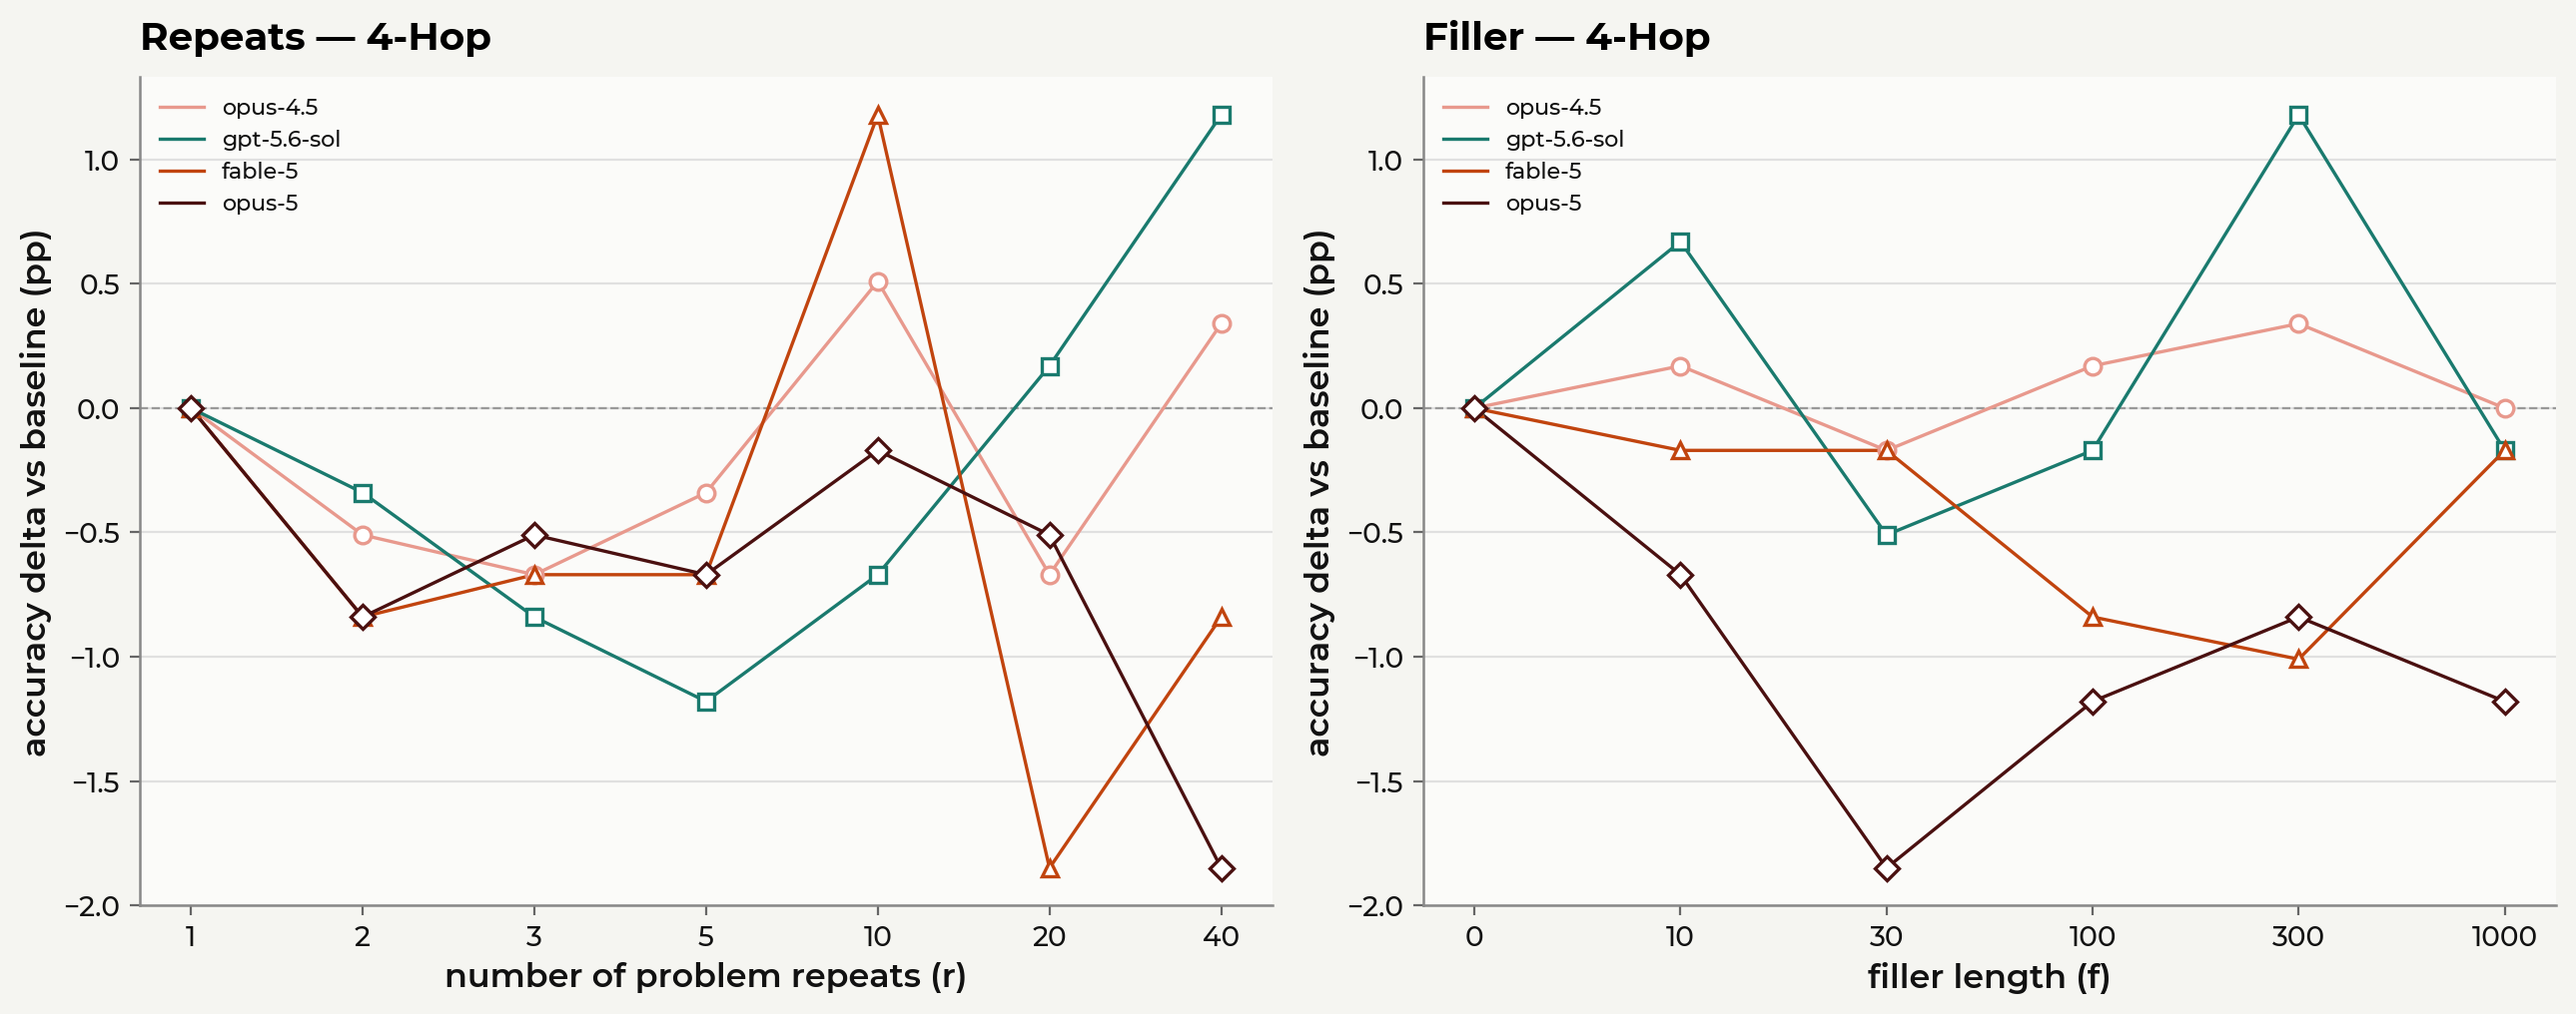
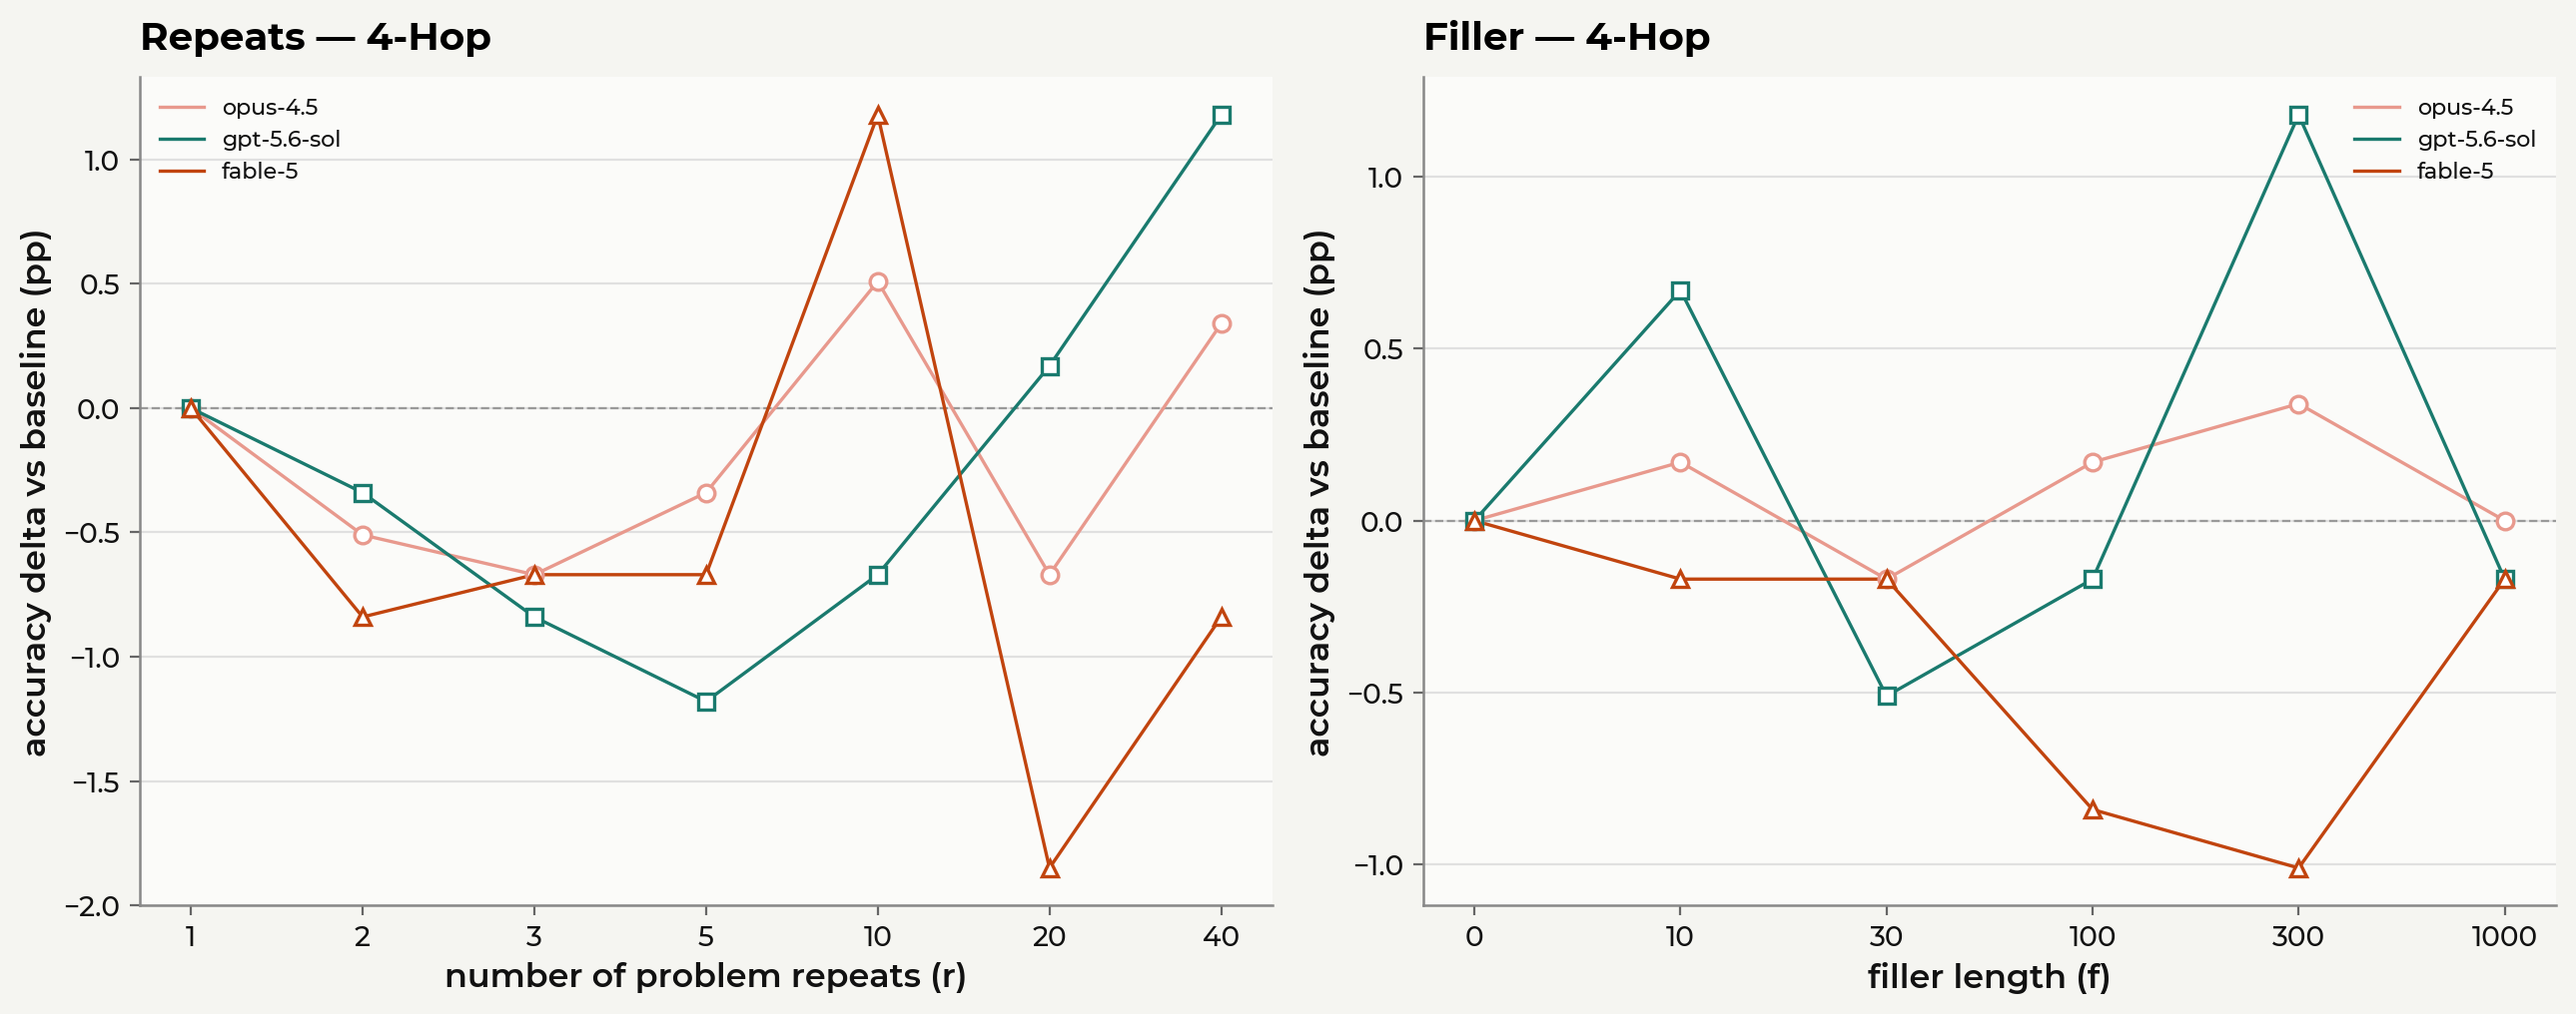
Credit American Dogwood as a match for a Dogwood gold
Reverts part of the previous false-positive scoring fix: Virginia's "American
Dogwood" and North Carolina's "Dogwood" are the same real species (Flowering
Dogwood, Cornus florida), so normalizing them to the same string is a
deliberate call rather than a bug. Re-adds "american " to the directional-
prefix strip list. The "common meadow violet" -> "violet" alias stays removed
(that collision never showed up in real data, and is a less clear-cut
synonym case).

9 rows in the store (all openai/gpt-5.6-sol on nhop_4, previously flipped to
incorrect) flip back to correct. Regenerated the 3 affected nhop_4 figures.

diff --git a/harness/scoring.py b/harness/scoring.py
@@ -255,7 +255,6 @@ _STATE_FLOWERS = [
 _FLOWER_ALIASES = {
     "hawaiian hibiscus": "hibiscus",
     "white hawthorn blossom": "hawthorn",
-    "common meadow violet": "violet",
     "yucca flower": "yucca",
     "wild native sunflower": "sunflower",
     "wild sunflower": "sunflower",
@@ -267,7 +266,17 @@ _FLOWER_ALIASES = {
     # same list (West Virginia), so collapsing "Coast Rhododendron" (Washington) down to it would
     # make the two states' answers indistinguishable.
     "washington rhododendron": "coast rhododendron",
+    # "common meadow violet": "violet" deliberately OMITTED (unlike the rest of this dict, which
+    # matches the ones in the paper's own normalize_answer) — New Jersey's "Common Meadow
+    # Violet" would collapse onto Illinois/Rhode Island's own actual "Violet", making three
+    # different states' gold answers indistinguishable. Confirmed via a full collision check
+    # across every string-valued fact table our vendored generator uses.
 }
+# "american " INCLUDED despite colliding with a different state's gold answer (Virginia's
+# "American Dogwood" -> "dogwood", same normalized form as North Carolina's "Dogwood"): the two
+# states' state flower really is the same species (Flowering Dogwood, Cornus florida) in real
+# life, so crediting the match is a deliberate call, not an oversight — confirmed with the
+# project owner 2026-07-28 after the collision check first flagged it.
 _DIRECTIONAL_PREFIXES = ("northern ", "western ", "eastern ", "southern ", "american ")
 _HONORIFIC_PREFIXES = ("mr. ", "sir. ", "mr ", "sir ", "lord ")
 
@@ -317,12 +326,15 @@ def _base_normalize_string(s: str) -> str:
     if s == "washington":
         s = "district of columbia"
     s = s.replace("audemus jura nostra defendere", "we dare defend our rights")
+    s = s.replace("fatti maschi,", "fatti maschii,")  # a common misspelling of Maryland's motto
     for ch in ",.-'`":
         s = s.replace(ch, "")
     s = re.sub(r"\band\b", "", s)  # drop the word "and" -> Oxford-comma-insensitive
     s = re.sub(r"\s+", " ", s).strip()
     if s.startswith("the "):
         s = s[4:]
+    if s.startswith("[") and s.endswith("]"):
+        s = s[1:-1]
     for prefix in _DIRECTIONAL_PREFIXES:
         if s.startswith(prefix):
             s = s[len(prefix):]
